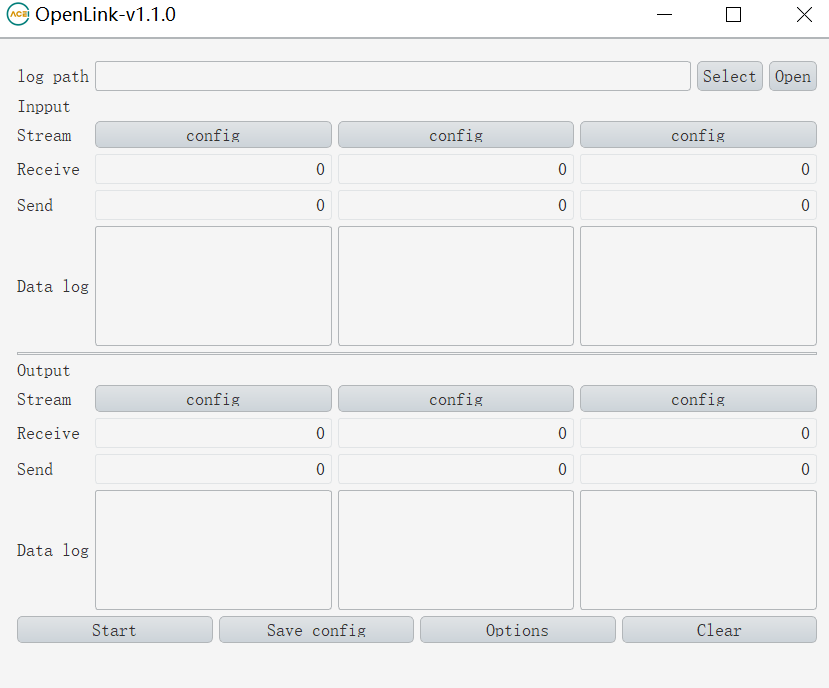
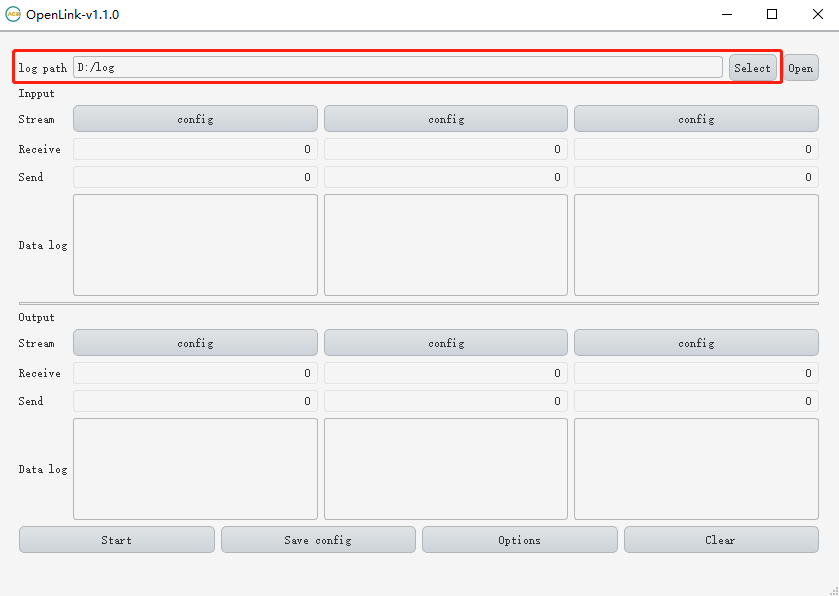
Openlink document how to use openrtk330 as a basestaion

diff --git a/Openlink/README.md b/Openlink/README.md
@@ -1,5 +1,33 @@
 # 如何将openrtk作为基站使用
 
-选择日志目录。
+选择一个目录用来存放日志。
 
 ![avatar](./img/1.png)
+
+将 openrtk330 模块连接串口，点击 Input Stream 第一个位置的 config 按钮打开配置对话框。
+
+![avatar](./img/2.png)
+ 
+勾选 Input-1，Stream 选择 Serial Port ，Port 选择第二个串口，Bitrate 选择460800，完成后点击 OK 按钮。
+
+![avatar](./img/3.png)
+
+点击 Output Stream 第一个位置的 config 按钮打开配置对话框。
+
+![avatar](./img/4.png)
+
+勾选 Output-1，Stream 选择 Ntrip Client/Caster ，分别配置ip、port和mountpiont等，完成后点击 OK 按钮。
+
+![avatar](./img/5.png)
+
+点击Options打开站点配置窗口。
+
+![avatar](./img/6.png)
+
+勾选 Station ID 填写站id，输入经纬高或者XYZ，如果勾选use pos in(999)将不使用输入的位置，从类型999数据中读取位置。
+
+![avatar](./img/7.png)
+
+点击start开始作为基站上传数据。
+
+![avatar](./img/8.png)
